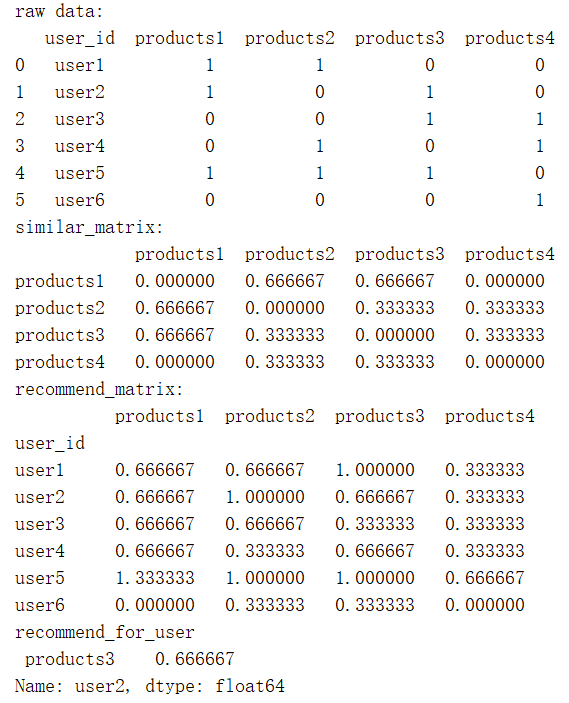
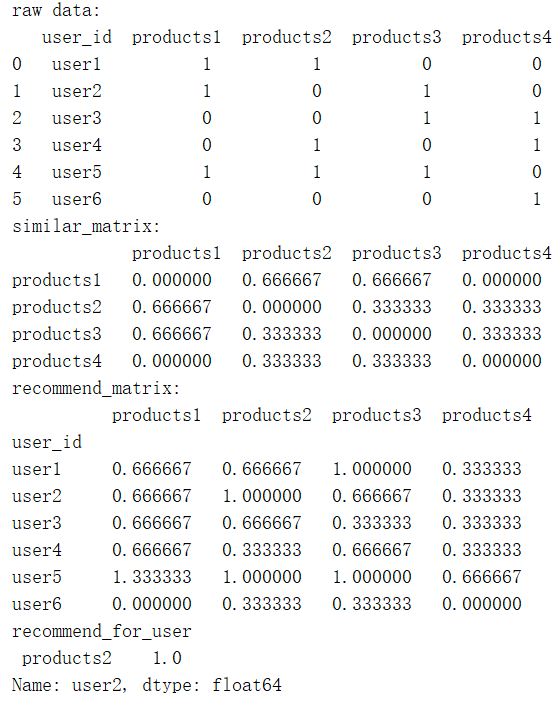
加入pyspark

diff --git a/recommandation/similar_matrix.py b/recommandation/similar_matrix.py
@@ -1,53 +1,56 @@
 import pandas as pd
 import numpy as np
 
-class rsm():#recommendation similar matrix
+
+class rsm():  # recommendation similar matrix
     # This model is depended on users' choices matrix which is 0-1 matrix
     # If user i buy product j,dataframe.loc['user_i','product_j']=1,else=0
     # Then we calucate similar score:count(A and B)/sqrt(count(A)*count(B))
     # Finally we calucate recommend matrix:similar matrix * users' choices matrix
 
-    def __init__(self,data_raw):
-        self.data_raw=data_raw
+    def __init__(self, data_raw):
+        self.data_raw = data_raw
 
-    def similar_matrix(self):  # calulate similar matrix
-        data_raw=self.data_raw
+    def similar_matrix_cal(self):  # calulate similar matrix
+        data_raw = self.data_raw
         users_num = data_raw.shape[0]  # user_id is in first column
         data_raw = data_raw.iloc[:, 1:]  # remove first column:user_id
         products = data_raw.columns
         products_num = data_raw.shape[1]
-        result = pd.DataFrame(np.zeros([products_num, products_num])) # creat products_num*products_num zero-matrix
+        similar_matrix = pd.DataFrame(
+            np.zeros([products_num, products_num]))  # creat products_num*products_num zero-matrix
         for i in range(products_num):
             for j in range(products_num):
                 if j != i:
                     # calucate similar point between diffrent products
                     sum_buy = data_raw.agg(sum, axis=0)
-                    average_buy = np.sqrt(sum_buy[i] * sum_buy[j]) # weighted denominator
+                    average_buy = np.sqrt(sum_buy[i] * sum_buy[j])  # weighted denominator
                     for one_user in range(users_num):
                         if data_raw.iloc[one_user, j] == 1 & data_raw.iloc[one_user, i] == 1:  # 客户同时购买i,j
-                            result.loc[i, j] += 1 / average_buy
-        result.columns, result.index = products, products
-        return result
+                            similar_matrix.loc[i, j] += 1 / average_buy
+        similar_matrix.columns, similar_matrix.index = products, products
+        self.similar_matrix = similar_matrix
 
-    def recommend_matrix(self):
-        data_raw=self.data_raw
+    def recommend_matrix_cal(self):
+        data_raw = self.data_raw
         users = data_raw.iloc[:, 0]
         data_raw = data_raw.iloc[:, 1:]  # remove first column:user_id
         products = data_raw.columns
-        result = pd.DataFrame(np.dot(data_raw, self.similar_matrix()))
-        result.columns, result.index = products, users
-        return result
+        recommend_matrix = pd.DataFrame(np.dot(data_raw, self.similar_matrix))
+        recommend_matrix.columns, recommend_matrix.index = products, users
+        self.recommend_matrix = recommend_matrix
 
-    def recommend_for_user(self,user_id,num=1):
+    def recommend_for_user_cal(self, user_id, top=1):
         data_raw = self.data_raw
         products = data_raw.columns
         users = data_raw.iloc[:, 0]
         data_raw.index = users
         data_raw = data_raw.iloc[:, 1:]  # remove first column:user_id
-        recommend_matrix=self.recommend_matrix()
-        user_data=recommend_matrix.loc[user_id,:]
-        result=user_data[data_raw.loc[user_id,:]==0].sort_values(ascending=False)[0:num]
-        return result
+        recommend_matrix = self.recommend_matrix
+        user_data = recommend_matrix.loc[user_id, :]
+        recommend_for_user = user_data[data_raw.loc[user_id, :] == 0].sort_values(ascending=False)[0:top]
+        self.recommend_for_user=recommend_for_user
+
 
 if __name__ == '__main__':
     # users' choices matrix
@@ -59,13 +62,19 @@ if __name__ == '__main__':
                              ['user6', 0, 0, 0, 1]])
     data_raw.columns = ['user_id', 'products1', 'products2', 'products3', 'products4']
     print('raw data:\n', data_raw)
+
     # creat model
     model = rsm(data_raw=data_raw)
-    print('similar_matrix:\n', model.similar_matrix())
+    model.similar_matrix_cal()
+    print('similar_matrix:\n', model.similar_matrix)
     # similar matrix
     # [[0, 0.67, 0.67, 0],
     #  [0.67, 0, 0.33, 0.33],
     #  [0.67, 0.33, 0, 0.33],
     #  [0, 0.33, 0.33, 0]]
-    print('recommend_matrix:\n', model.recommend_matrix())
-    print('recommend_for_user\n', model.recommend_for_user(user_id='user2',num=1))
+
+    model.recommend_matrix_cal()
+    print('recommend_matrix:\n', model.recommend_matrix)
+
+    model.recommend_for_user_cal(user_id='user2', top=1)
+    print('recommend_for_user\n', model.recommend_for_user)

diff --git a/recommandation/Recommandation_SVD.py b/recommandation/Recommandation_SVD.py
@@ -47,6 +47,7 @@ class Recommandation_SVD():
         x = np.matrix(x)
         position = np.array(x * product_matrix_k * np.linalg.inv(s_k))[0]
         self.user_position = position  # 用户的空间位置
+        self.x = np.array(x)[0]
 
     def user_similarity(self, top=None, method='cosine'):
         '''
@@ -66,7 +67,8 @@ class Recommandation_SVD():
             # 计算和每个已知用户的余弦相似度
             for one_user in user_matrix_k:
                 one_user = np.array(one_user)[0]
-                cos = np.dot(user_position, one_user) / np.sqrt(np.dot(user_position, user_position) * np.dot(one_user, one_user))
+                cos = np.dot(user_position, one_user) / np.sqrt(
+                    np.dot(user_position, user_position) * np.dot(one_user, one_user))
                 user_similar_list.append(cos)
 
         else:
@@ -107,10 +109,12 @@ class Recommandation_SVD():
             distances.append(distance[0, 0])
         product_distances = pd.DataFrame({'products': self.products, 'distances': distances},
                                          columns=['products', 'distances'])
-        product_distances.aggregate
+        product_distances.index=self.products
         self.product_distances = product_distances
         if top is not None:
-            product_distances_top = product_distances.sort_values('distances', ascending=False).iloc[0:top, :]
+            x = self.x
+            recommend_index=list(np.array(self.products)[x==0])
+            product_distances_top = product_distances.loc[recommend_index, :].sort_values('distances', ascending=False).iloc[0:top, :]
             self.product_distances_top = product_distances_top
             self.product_top = list(product_distances_top['products'])
 
@@ -126,10 +130,13 @@ class Recommandation_SVD():
         recommend_score_full = pd.DataFrame({'products': self.products,
                                              'score': users_score},
                                             columns=['products', 'score'])
-        recommend_score_full = recommend_score_full.reset_index(drop=True)
-        self.recommend_score_full = recommend_score_full
-        self.recommend_score_top = recommend_score_full.sort_values('score', ascending=False).iloc[0:top, :]
-        self.recommend_top = list(self.recommend_score_top['products'])
+        recommend_score_full.index=self.products
+        if top is not None:
+            x = self.x
+            self.recommend_score_full = recommend_score_full
+            recommend_index=list(np.array(self.products)[x==0])
+            self.recommend_score_top = recommend_score_full.loc[recommend_index, :].sort_values('score', ascending=False).iloc[0:top, :]
+            self.recommend_top = list(self.recommend_score_top['products'])
 
 
 if __name__ == '__main__':
@@ -150,7 +157,7 @@ if __name__ == '__main__':
 
     # 计算位置坐标
     model.user_position(x=x)
-    model.user_similarity(top=2, method='cosine')#'Euclidean'
+    model.user_similarity(top=2, method='cosine')  # 'Euclidean'
     # print(model.user_similar_top)
     print('相似用户top2的清单：\n', model.user_similar_full_top)
 

diff --git a/recommandation/mllib_recommandation.py b/recommandation/mllib_recommandation.py
@@ -1,0 +1,31 @@
+from pyspark import SparkConf, SparkContext
+import pandas as pd
+import numpy as np
+
+from pyspark.mllib.recommendation import ALS #用户和产品矩阵都可以聚类做分类,也可以根据预测值做推荐
+
+conf = SparkConf().setMaster("local[*]").setAppName("First_App")
+sc = SparkContext(conf=conf)
+sc.setLogLevel('WARN')
+
+# data = [[['uid', np.random.randint(1, 5)],
+#          ['pid', np.random.randint(1, 5)],
+#          ['rate', np.random.randint(1, 11)]] for i in range(20)]
+data_raw = [[1, 1, 1], [1, 2, 1],
+            [2, 1, 1], [2, 3, 1],
+            [3, 3, 1], [3, 4, 1],
+            [4, 2, 1], [4, 4, 1],
+            [5, 1, 1], [5, 2, 1], [5, 3, 1],
+            [6, 4, 1]]
+pd.DataFrame(data_raw)
+data=sc.parallelize(data_raw)
+model=ALS.train(ratings=data,rank=5,iterations=10,lambda_=0.01)
+model.userFeatures().collect()#用户因子
+model.productFeatures().collect()#产品因子
+model.recommendProductsForUsers(2).collect()#给出每个客户得分前两位产品
+model.recommendUsersForProducts(2).collect()#给出每个产品得分前两位的客户
+model.predict(1,2)#给出客户1对产品2的预测得分
+recommend_products_for_users_1=model.predictAll(data.map(lambda x:[x[0],x[1]])).collect()#查看每一个样本的预测得分
+# model=ALS.trainImplicit()#用于隐式反馈数据
+
+

diff --git a/README.md b/README.md
@@ -1,0 +1,26 @@
+# recommandation
+[![](https://img.shields.io/badge/Python-3.5-blue.svg)](https://www.python.org/)<br>
+[![](https://img.shields.io/badge/pandas-0.21.0-brightgreen.svg)](https://pypi.python.org/pypi/pandas/0.21.0)
+[![](https://img.shields.io/badge/numpy-1.13.1-brightgreen.svg)](https://pypi.python.org/pypi/numpy/1.13.1)
+[![](https://img.shields.io/badge/pyspark-1.6.1-brightgreen.svg)](https://pypi.python.org/pypi/pyspark/)
+## 语言
+Python3.5<br>
+## 依赖库
+pandas=0.21.0<br>
+numpy=1.13.1<br>
+pyspark=1.6.1<br>
+## 原理说明
+推荐系统的原理在于计算用户对各个物品的期望，从而将高期望的物品推荐给用户。本人写的方法有：
+### 物品的相似度矩阵:similar_matrix.py
+原始数据为用户-物品是否购买的一个0-1矩阵(m\*n)。通过计算物品两两间的相似度，从而得到物品的相似度矩阵(n\*n)。相似度矩阵\*用户-物品矩阵(即原始数据)，就可以得到用户已购买物品对未购买物品的一个权重求和，从而得到用户对每个物品的购买期望(m\*n)*(n\*n)=m\*n的推荐矩阵<br>
+![ex1](https://github.com/renjunxiang/recommandation/blob/master/picture/similar%20matrix%20result.png)
+### ALS矩阵分解:ALS.py
+原始数据为用户-物品打分或者是否购买矩阵(m\*n)。通过矩阵分解，将m\*n的矩阵分解为m\*k的用户矩阵和k\*n的物品矩阵，(m\*k)*(k\*n)=m\*n的推荐矩阵，从而从而得到用户对每个物品的购买期望(填充了原来的缺失值或0值）。ALS的使用范围要大于相似度矩阵，且精确性要更高，矩阵分解可以直观的得到用户特征和物品特征。<br>
+![ex2](https://github.com/renjunxiang/recommandation/blob/master/picture/ALS矩阵分解.png)
+### ALS矩阵分解在pyspark上有现成模块
+![ex3](https://github.com/renjunxiang/recommandation/blob/master/picture/pyspark_1.png)
+![ex4](https://github.com/renjunxiang/recommandation/blob/master/picture/pyspark_2.png)
+![ex5](https://github.com/renjunxiang/recommandation/blob/master/picture/pyspark_3.png)
+### SVD矩阵分解
+原始数据为用户-物品打分或者是否购买矩阵(m\*n)。通过矩阵分解，将m\*n的矩阵分解为m\*m的用户矩阵、m\*n的特征矩阵和n\*n的物品矩阵。再降至k维，m\*k的用户矩阵、k\*k的特征矩阵和k\*n的物品矩阵，(m\*k)*(k\*n)=m\*n的推荐矩阵。通过用户购买向量\*k\*n的物品矩阵\*k\*k的特征矩阵的逆得到空间位置，求得余弦相似度、欧氏距离等来查询相似用户和相近产品<br>
+![ex6](https://github.com/renjunxiang/recommandation/blob/master/picture/SVD分解.png)
